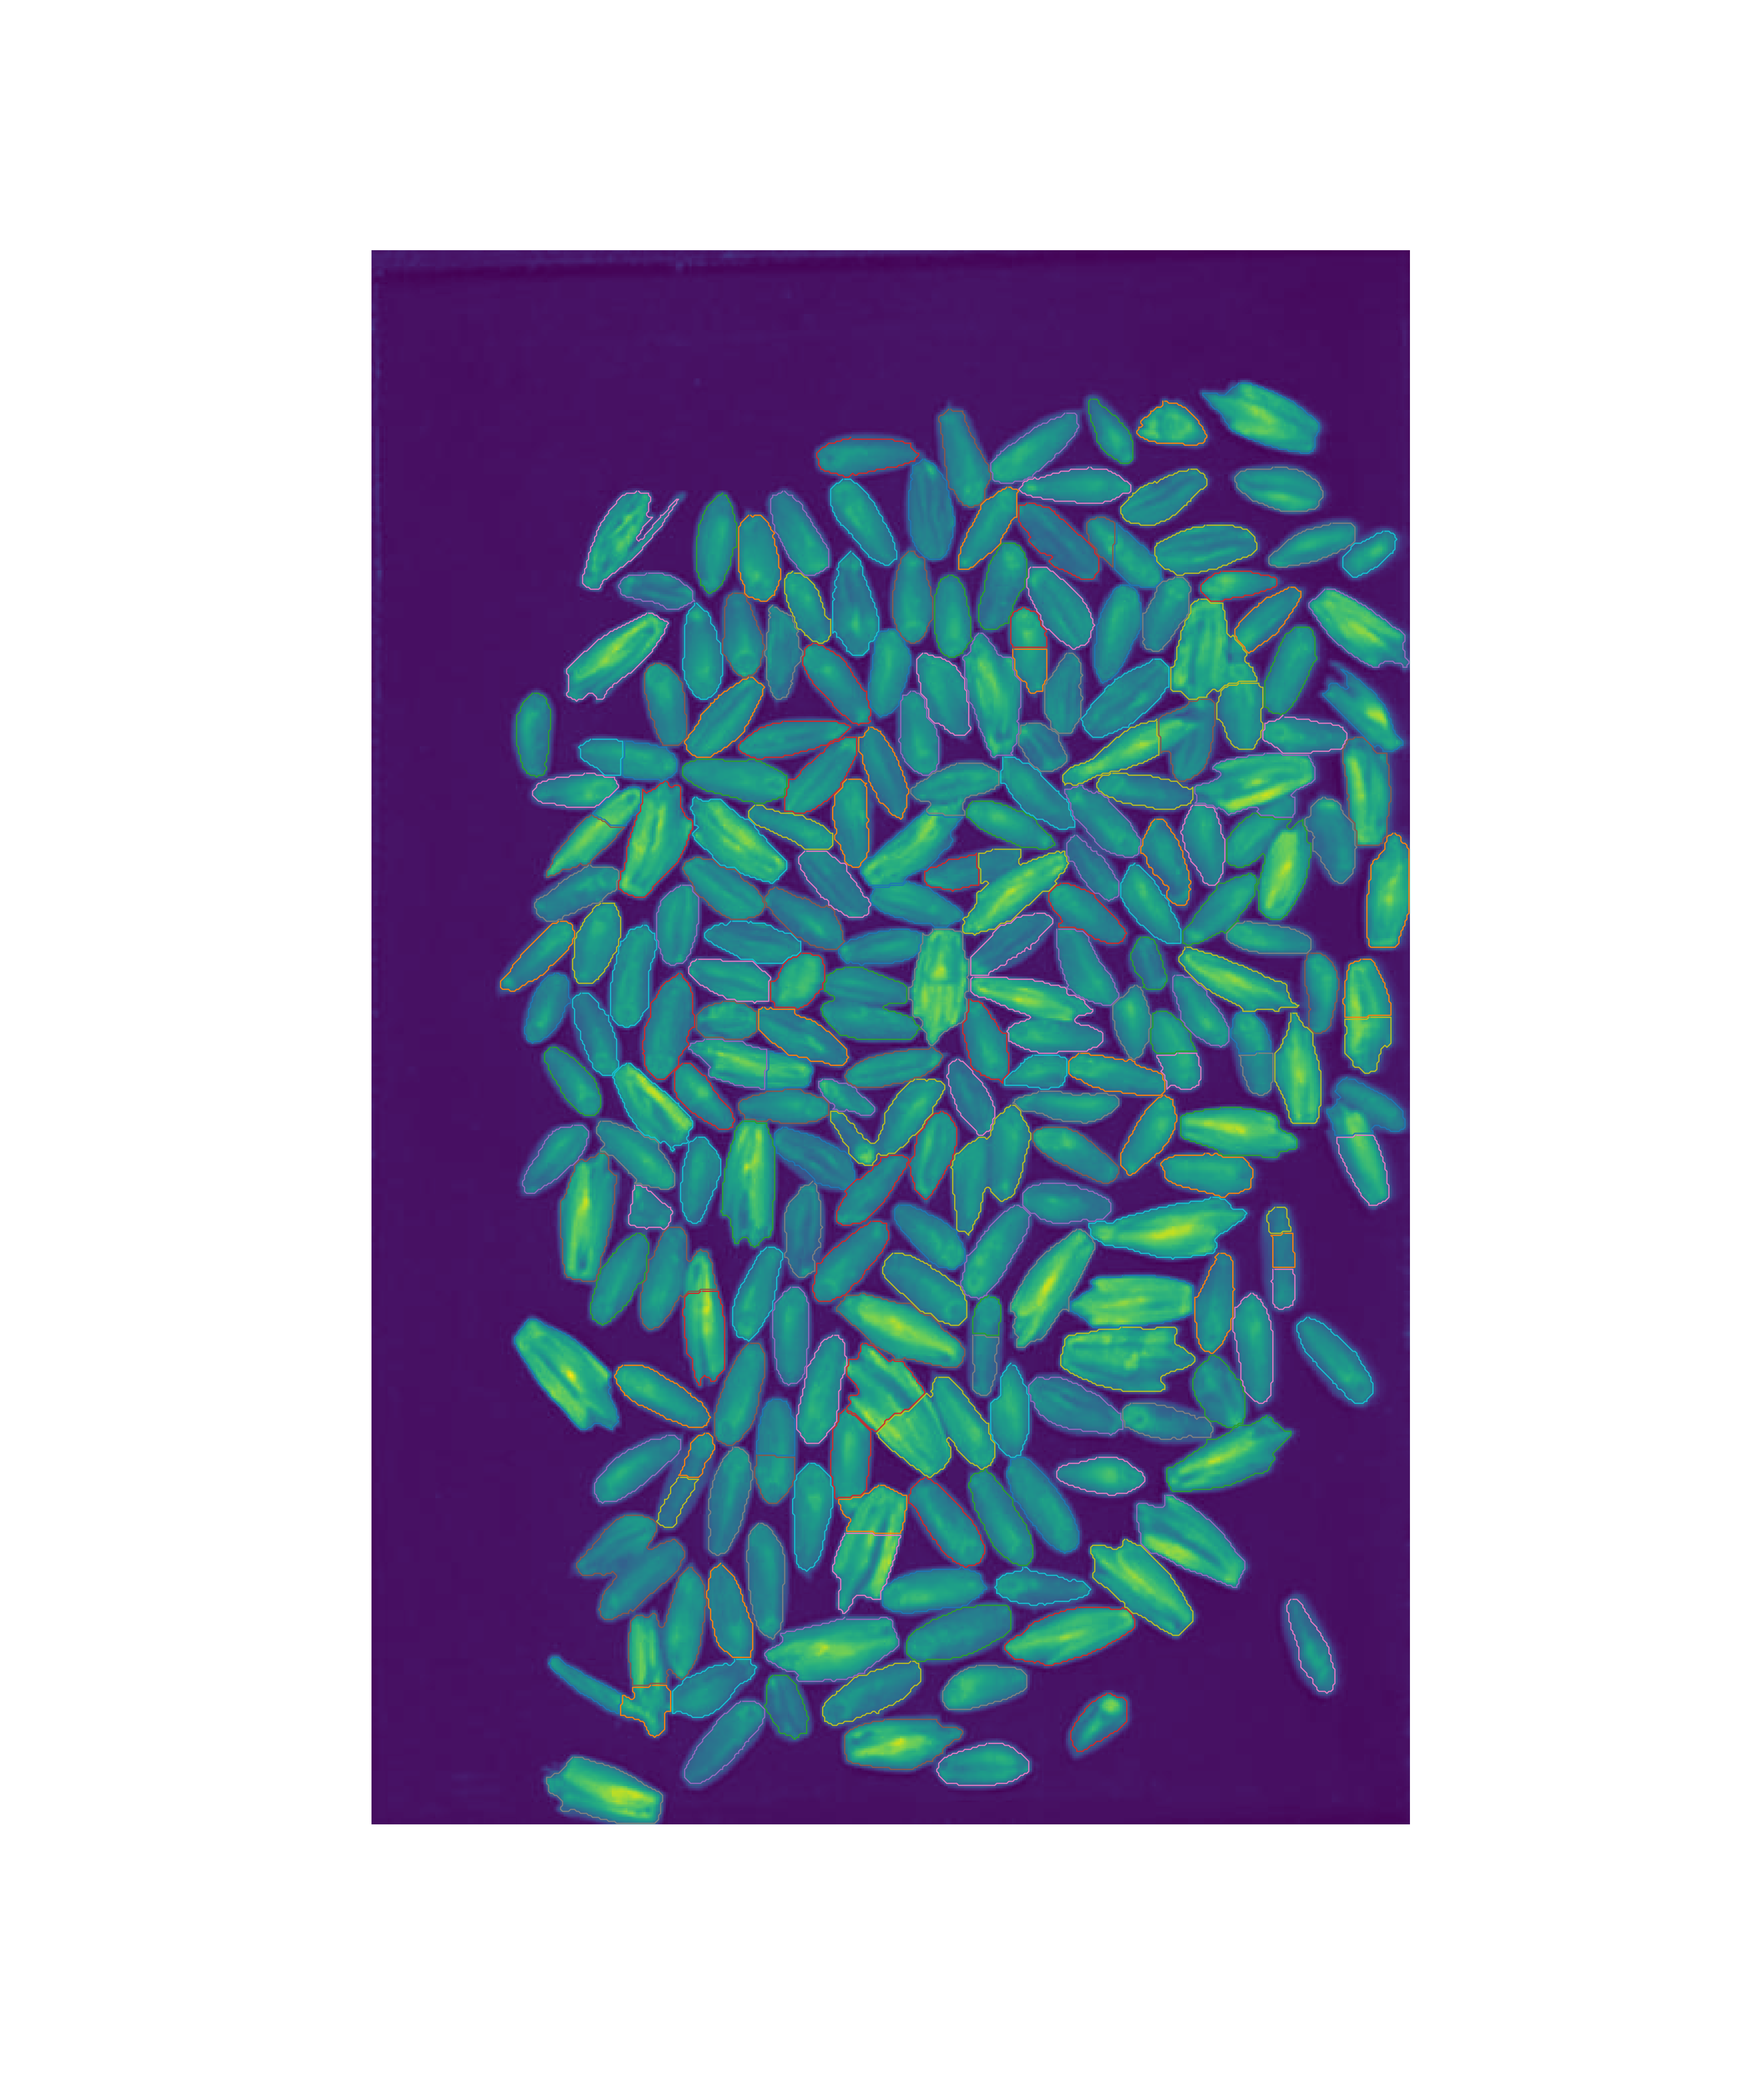
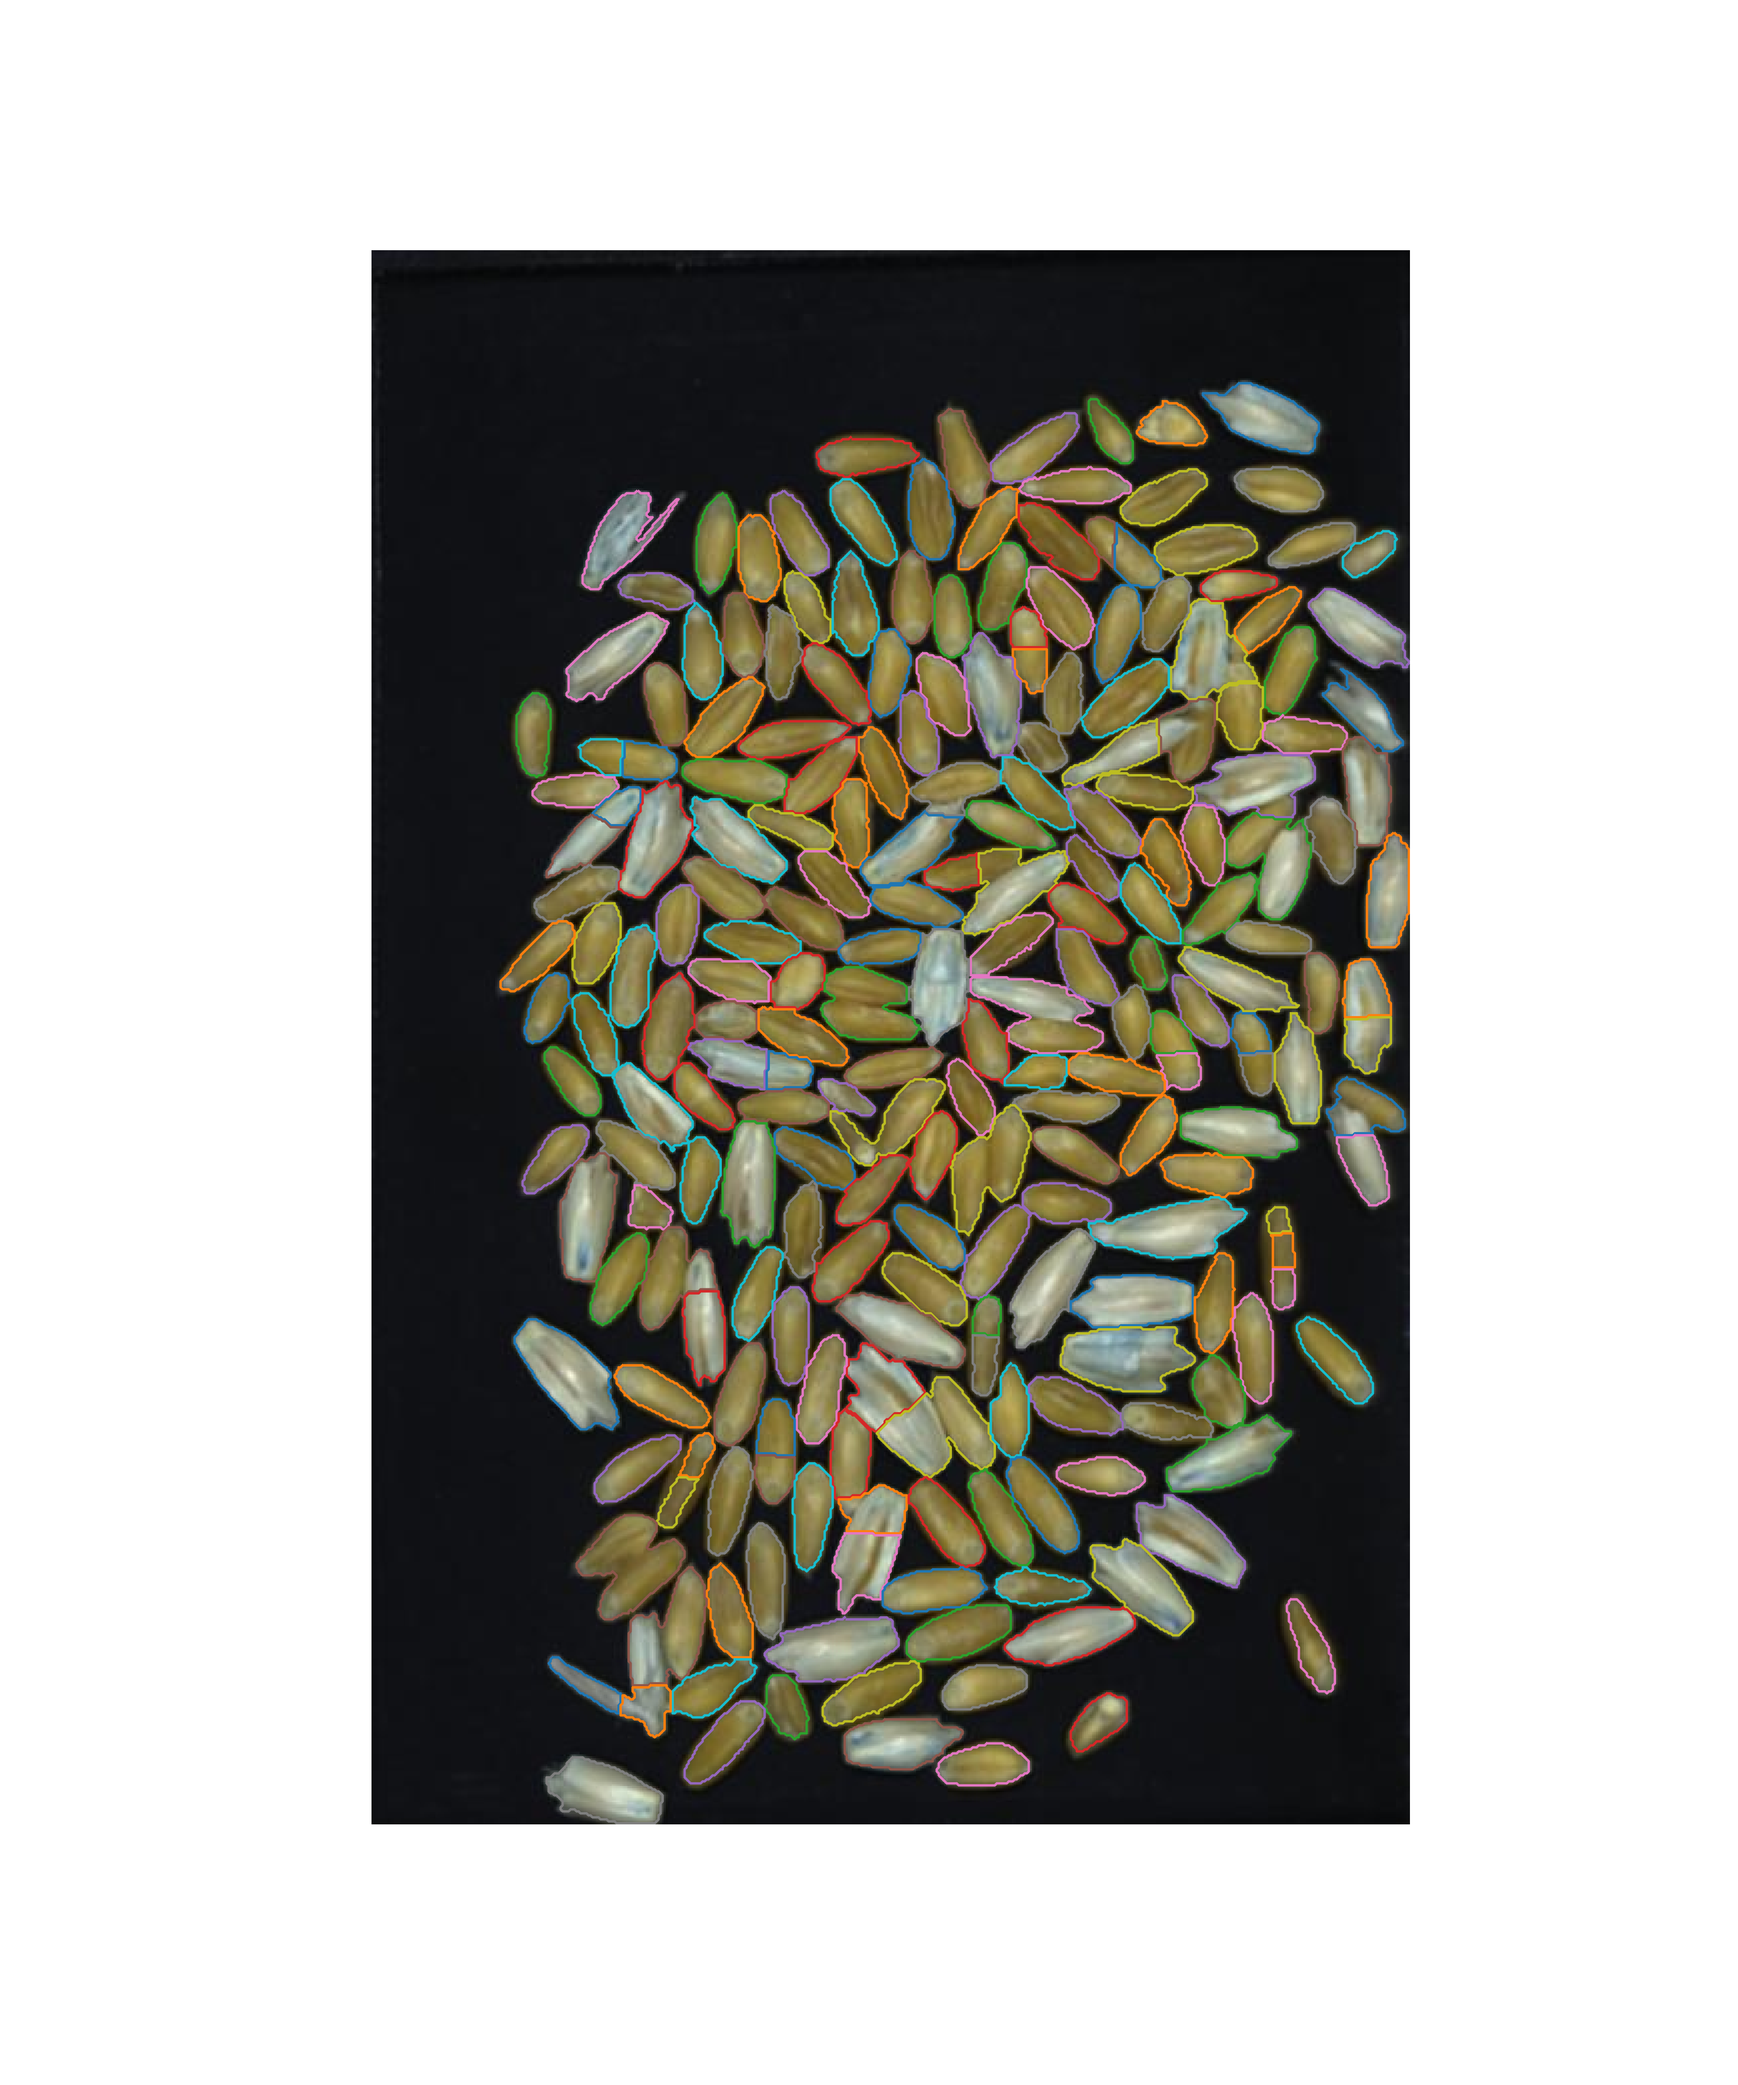
opdateret billede

diff --git a/preprocessing/watershed_v2.py b/preprocessing/watershed_v2.py
@@ -75,7 +75,7 @@ plt.imshow(markers)
 plt.show()
 
 fig, ax = plt.subplots(figsize=(10,12))
-ax.imshow(image_g)
+ax.imshow(im)
 for cnt in np.unique(markers[markers > 0]):
     temp = markers.copy()
     temp[temp != cnt] = 0
@@ -88,7 +88,7 @@ for cnt in np.unique(markers[markers > 0]):
     for j in range(len(new_array)):
         temp.append(int(new_array[j,0]))
         temp.append(int(new_array[j,1]))
-    ax.plot(temp[0::2],temp[1::2],linestyle="-",linewidth=.5)
+    ax.plot(temp[0::2],temp[1::2],linestyle="-",linewidth=1)
     
 ax.axis('off')
 plt.savefig("test.png",dpi=400)
